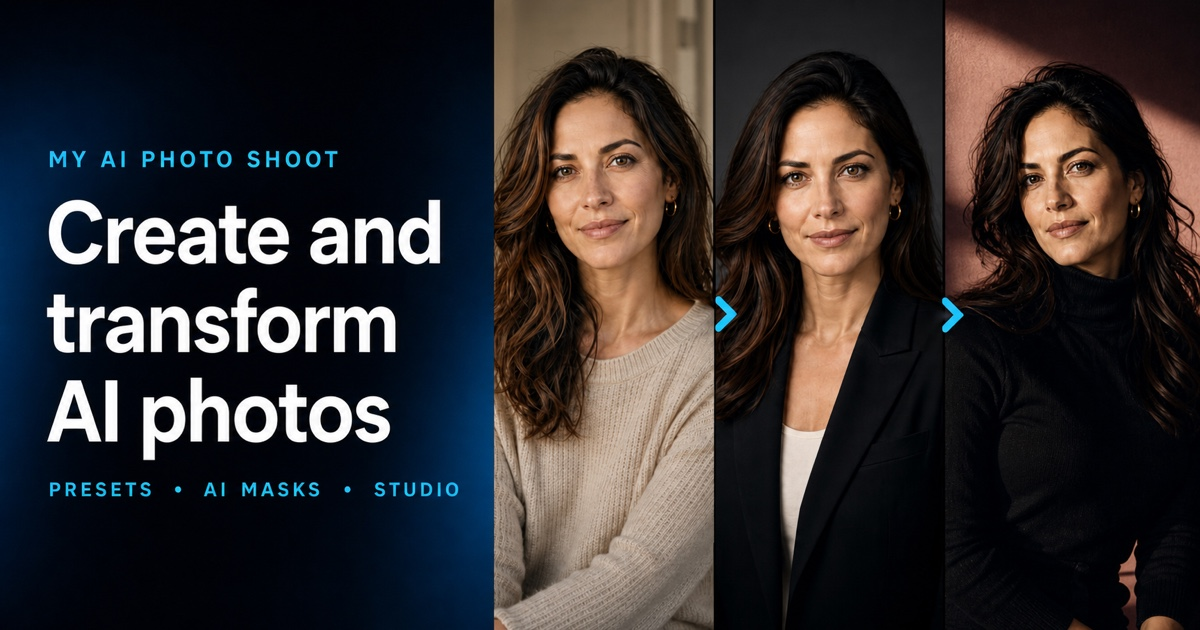
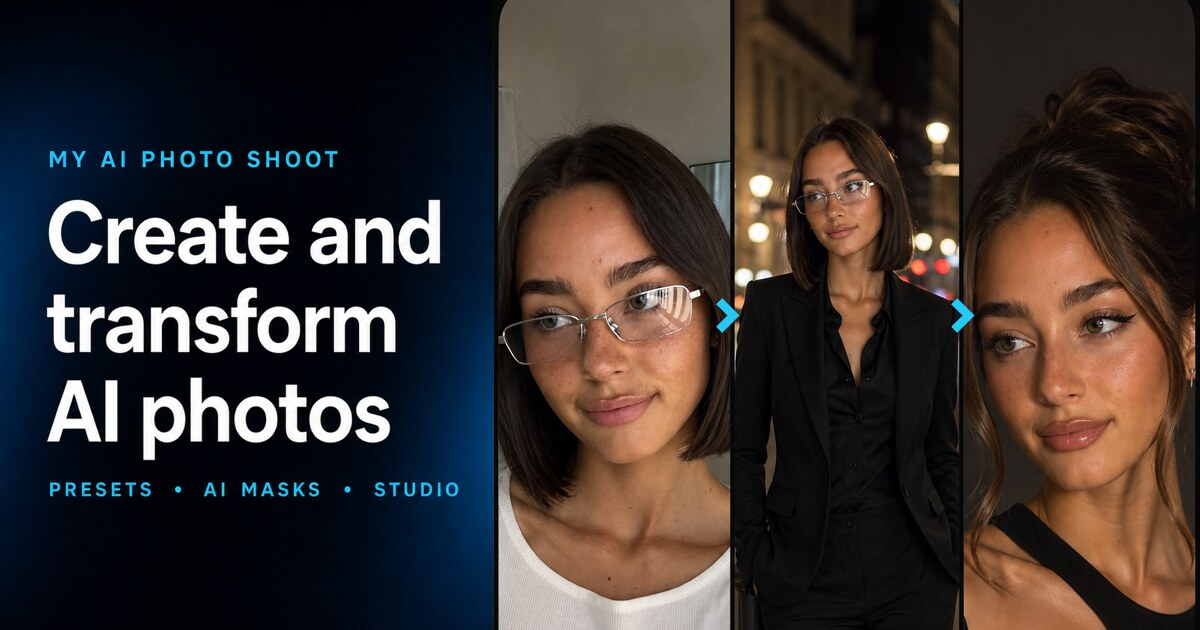
Use original model photos for landing and OG images

diff --git a/src/app/layout.tsx b/src/app/layout.tsx
@@ -64,7 +64,7 @@ export const metadata: Metadata = {
     siteName: "My AI Photo Shoot",
     images: [
       {
-        url: "/og-image-v2.jpg?v=5",
+        url: "/og-image-v2.jpg?v=7",
         width: 1200,
         height: 630,
         alt: "My AI Photo Shoot AI photo creation and transformation examples",
@@ -77,7 +77,7 @@ export const metadata: Metadata = {
     card: "summary_large_image",
     title: "Create and Transform AI Photos",
     description: "Create and transform AI photos with presets, AI Masks, Studio, and custom prompts for headshots, profile photos, portraits, and creative photos.",
-    images: [{ url: "/og-image-v2.jpg?v=5", alt: "My AI Photo Shoot AI photo creation and transformation examples" }],
+    images: [{ url: "/og-image-v2.jpg?v=7", alt: "My AI Photo Shoot AI photo creation and transformation examples" }],
   },
 };
 

diff --git a/src/app/page.tsx b/src/app/page.tsx
@@ -71,7 +71,7 @@ export async function generateMetadata(): Promise<Metadata> {
       siteName: 'My AI Photo Shoot',
       images: [
         {
-          url: '/og-image-v2.jpg?v=5',
+          url: '/og-image-v2.jpg?v=7',
           width: 1200,
           height: 630,
           alt: 'My AI Photo Shoot AI photo creation and transformation examples',
@@ -85,7 +85,7 @@ export async function generateMetadata(): Promise<Metadata> {
       card: 'summary_large_image',
       title: shareTitle,
       description: shareDescription,
-      images: [{ url: '/og-image-v2.jpg?v=5', alt: 'My AI Photo Shoot AI photo creation and transformation examples' }],
+      images: [{ url: '/og-image-v2.jpg?v=7', alt: 'My AI Photo Shoot AI photo creation and transformation examples' }],
     },
   };
 }

diff --git a/src/app/presets/page.tsx b/src/app/presets/page.tsx
@@ -28,13 +28,13 @@ export async function generateMetadata(): Promise<Metadata> {
       type: 'website',
       locale: ogLocaleFromAppLocale(defaultLocale),
       alternateLocale: ogAlternateLocales(locales, defaultLocale),
-      images: [{ url: '/og-image-v2.jpg?v=5', width: 1200, height: 630, alt: AI_PRESETS_INDEX_TITLE }],
+      images: [{ url: '/og-image-v2.jpg?v=7', width: 1200, height: 630, alt: AI_PRESETS_INDEX_TITLE }],
     },
     twitter: {
       card: 'summary_large_image',
       title: AI_PRESETS_INDEX_TITLE,
       description: AI_PRESETS_INDEX_DESCRIPTION,
-      images: [{ url: '/og-image-v2.jpg?v=5', alt: AI_PRESETS_INDEX_TITLE }],
+      images: [{ url: '/og-image-v2.jpg?v=7', alt: AI_PRESETS_INDEX_TITLE }],
     },
   };
 }

diff --git a/src/app/[locale]/blog/page.tsx b/src/app/[locale]/blog/page.tsx
@@ -82,13 +82,13 @@ export async function generateMetadata({ params }: Props): Promise<Metadata> {
         type: 'website',
         locale: ogLocaleFromAppLocale(locale),
         alternateLocale: ogAlternateLocales(locales, locale),
-        images: [{ url: '/og-image-v2.jpg?v=5', width: 1200, height: 630, alt: socialTitle }],
+        images: [{ url: '/og-image-v2.jpg?v=7', width: 1200, height: 630, alt: socialTitle }],
       },
       twitter: {
         card: 'summary_large_image',
         title: socialTitle,
         description,
-        images: [{ url: '/og-image-v2.jpg?v=5', alt: socialTitle }],
+        images: [{ url: '/og-image-v2.jpg?v=7', alt: socialTitle }],
       },
     };
   } catch {

diff --git a/src/app/blog/page.tsx b/src/app/blog/page.tsx
@@ -70,13 +70,13 @@ export async function generateMetadata(): Promise<Metadata> {
         type: 'website',
         locale: ogLocaleFromAppLocale(defaultLocale),
         alternateLocale: ogAlternateLocales(locales, defaultLocale),
-        images: [{ url: '/og-image-v2.jpg?v=5', width: 1200, height: 630, alt: socialTitle }],
+        images: [{ url: '/og-image-v2.jpg?v=7', width: 1200, height: 630, alt: socialTitle }],
       },
       twitter: {
         card: 'summary_large_image',
         title: socialTitle,
         description,
-        images: [{ url: '/og-image-v2.jpg?v=5', alt: socialTitle }],
+        images: [{ url: '/og-image-v2.jpg?v=7', alt: socialTitle }],
       },
     };
   } catch {

diff --git a/src/app/ai-presets/browse/[pageNumber]/page.tsx b/src/app/ai-presets/browse/[pageNumber]/page.tsx
@@ -54,13 +54,13 @@ export async function generateMetadata({ params }: PageProps): Promise<Metadata>
       type: 'website',
       locale: ogLocaleFromAppLocale(defaultLocale),
       alternateLocale: ogAlternateLocales(locales, defaultLocale),
-      images: [{ url: '/og-image-v2.jpg?v=5', width: 1200, height: 630, alt: title }],
+      images: [{ url: '/og-image-v2.jpg?v=7', width: 1200, height: 630, alt: title }],
     },
     twitter: {
       card: 'summary_large_image',
       title,
       description: AI_PRESETS_INDEX_DESCRIPTION,
-      images: [{ url: '/og-image-v2.jpg?v=5', alt: title }],
+      images: [{ url: '/og-image-v2.jpg?v=7', alt: title }],
     },
   };
 }

diff --git a/src/app/[locale]/use-cases/page.tsx b/src/app/[locale]/use-cases/page.tsx
@@ -62,13 +62,13 @@ export async function generateMetadata({ params }: PageProps): Promise<Metadata>
       type: 'website',
       locale: ogLocaleFromAppLocale(locale),
       alternateLocale: ogAlternateLocales(locales, locale),
-      images: [{ url: '/og-image-v2.jpg?v=5', width: 1200, height: 630, alt: socialTitle }],
+      images: [{ url: '/og-image-v2.jpg?v=7', width: 1200, height: 630, alt: socialTitle }],
     },
     twitter: {
       card: 'summary_large_image',
       title: socialTitle,
       description,
-      images: [{ url: '/og-image-v2.jpg?v=5', alt: socialTitle }],
+      images: [{ url: '/og-image-v2.jpg?v=7', alt: socialTitle }],
     },
   };
 }

diff --git a/src/app/[locale]/support/page.tsx b/src/app/[locale]/support/page.tsx
@@ -33,13 +33,13 @@ export async function generateMetadata({ params }: Props): Promise<Metadata> {
       type: 'website',
       locale: ogLocaleFromAppLocale(locale),
       alternateLocale: ogAlternateLocales(locales, locale),
-      images: [{ url: '/og-image-v2.jpg?v=5', width: 1200, height: 630, alt: socialTitle }],
+      images: [{ url: '/og-image-v2.jpg?v=7', width: 1200, height: 630, alt: socialTitle }],
     },
     twitter: {
       card: 'summary_large_image',
       title: socialTitle,
       description,
-      images: [{ url: '/og-image-v2.jpg?v=5', alt: socialTitle }],
+      images: [{ url: '/og-image-v2.jpg?v=7', alt: socialTitle }],
     },
   };
 }

diff --git a/src/app/support/page.tsx b/src/app/support/page.tsx
@@ -31,13 +31,13 @@ export async function generateMetadata(): Promise<Metadata> {
       type: 'website',
       locale: ogLocaleFromAppLocale(defaultLocale),
       alternateLocale: ogAlternateLocales(locales, defaultLocale),
-      images: [{ url: '/og-image-v2.jpg?v=5', width: 1200, height: 630, alt: socialTitle }],
+      images: [{ url: '/og-image-v2.jpg?v=7', width: 1200, height: 630, alt: socialTitle }],
     },
     twitter: {
       card: 'summary_large_image',
       title: socialTitle,
       description,
-      images: [{ url: '/og-image-v2.jpg?v=5', alt: socialTitle }],
+      images: [{ url: '/og-image-v2.jpg?v=7', alt: socialTitle }],
     },
   };
 }

diff --git a/src/app/use-cases/page.tsx b/src/app/use-cases/page.tsx
@@ -57,13 +57,13 @@ export async function generateMetadata(): Promise<Metadata> {
       type: 'website',
       locale: ogLocaleFromAppLocale(defaultLocale),
       alternateLocale: ogAlternateLocales(locales, defaultLocale),
-      images: [{ url: '/og-image-v2.jpg?v=5', width: 1200, height: 630, alt: socialTitle }],
+      images: [{ url: '/og-image-v2.jpg?v=7', width: 1200, height: 630, alt: socialTitle }],
     },
     twitter: {
       card: 'summary_large_image',
       title: socialTitle,
       description,
-      images: [{ url: '/og-image-v2.jpg?v=5', alt: socialTitle }],
+      images: [{ url: '/og-image-v2.jpg?v=7', alt: socialTitle }],
     },
   };
 }

diff --git a/src/app/[locale]/page.tsx b/src/app/[locale]/page.tsx
@@ -75,7 +75,7 @@ export async function generateMetadata({ params }: Props): Promise<Metadata> {
       type: 'website',
       images: [
         {
-          url: '/og-image-v2.jpg?v=5',
+          url: '/og-image-v2.jpg?v=7',
           width: 1200,
           height: 630,
           alt: shareTitle,
@@ -88,7 +88,7 @@ export async function generateMetadata({ params }: Props): Promise<Metadata> {
       card: 'summary_large_image',
       title: shareTitle,
       description: shareDescription,
-      images: [{ url: '/og-image-v2.jpg?v=5', alt: shareTitle }],
+      images: [{ url: '/og-image-v2.jpg?v=7', alt: shareTitle }],
     },
   };
 }

diff --git a/src/app/[locale]/studio/page.tsx b/src/app/[locale]/studio/page.tsx
@@ -40,7 +40,7 @@ export async function generateMetadata({ params }: Props): Promise<Metadata> {
       type: 'website',
       images: [
         {
-          url: '/og-image-v2.jpg?v=5',
+          url: '/og-image-v2.jpg?v=7',
           width: 1200,
           height: 630,
           alt: imageAlt,
@@ -53,7 +53,7 @@ export async function generateMetadata({ params }: Props): Promise<Metadata> {
       card: 'summary_large_image',
       title: shareTitle,
       description: shareDescription,
-      images: [{ url: '/og-image-v2.jpg?v=5', alt: imageAlt }],
+      images: [{ url: '/og-image-v2.jpg?v=7', alt: imageAlt }],
     },
   };
 }
